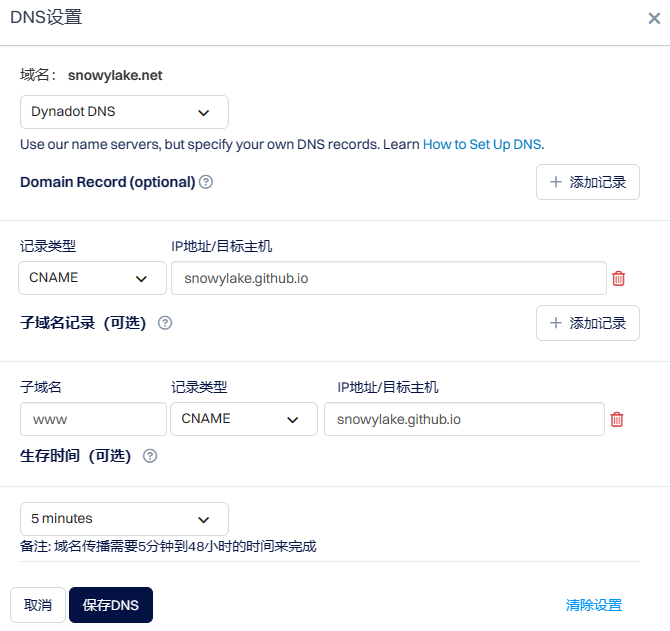
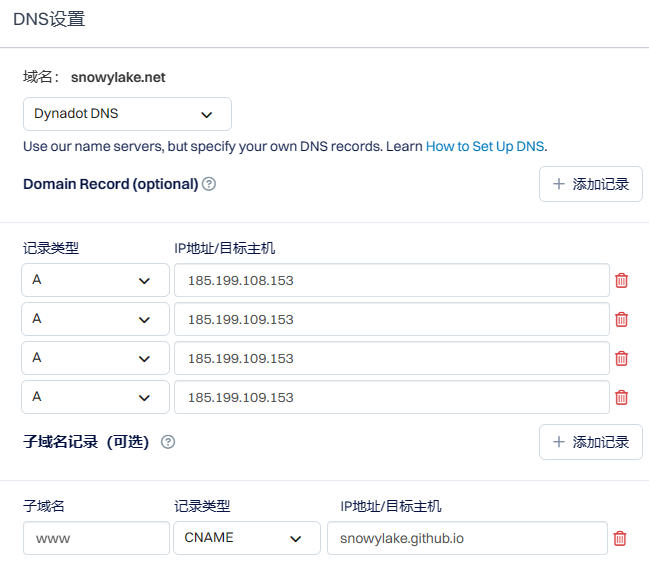
Site updated: 2023-06-16 03:58:55

diff --git a/2023/06/12/建站记录/index.html b/2023/06/12/建站记录/index.html
@@ -29,11 +29,11 @@
 <meta property="og:image" content="http://snowylake.net/2023/06/12/%E5%BB%BA%E7%AB%99%E8%AE%B0%E5%BD%95/image.png">
 <meta property="og:image" content="http://snowylake.net/2023/06/12/%E5%BB%BA%E7%AB%99%E8%AE%B0%E5%BD%95/image-5.png">
 <meta property="og:image" content="http://snowylake.net/2023/06/12/%E5%BB%BA%E7%AB%99%E8%AE%B0%E5%BD%95/image-1.png">
-<meta property="og:image" content="http://snowylake.net/2023/06/12/%E5%BB%BA%E7%AB%99%E8%AE%B0%E5%BD%95/image-2.png">
+<meta property="og:image" content="http://snowylake.net/2023/06/12/%E5%BB%BA%E7%AB%99%E8%AE%B0%E5%BD%95/image-6.png">
 <meta property="og:image" content="http://snowylake.net/2023/06/12/%E5%BB%BA%E7%AB%99%E8%AE%B0%E5%BD%95/image-3.png">
-<meta property="og:image" content="http://snowylake.net/2023/06/12/%E5%BB%BA%E7%AB%99%E8%AE%B0%E5%BD%95/image-4.png">
+<meta property="og:image" content="http://snowylake.net/2023/06/12/%E5%BB%BA%E7%AB%99%E8%AE%B0%E5%BD%95/image-7.png">
 <meta property="article:published_time" content="2023-06-11T17:31:13.000Z">
-<meta property="article:modified_time" content="2023-06-13T20:42:12.121Z">
+<meta property="article:modified_time" content="2023-06-15T19:58:37.030Z">
 <meta property="article:author" content="SnowyLake">
 <meta property="article:tag" content="技术随笔">
 <meta name="twitter:card" content="summary">
@@ -147,7 +147,7 @@
       <div class="sidebar-panel-container">
         <!--noindex-->
         <div class="post-toc-wrap sidebar-panel">
-            <div class="post-toc animated"><ol class="nav"><li class="nav-item nav-level-1"><a class="nav-link" href="#Github-Pages%E5%88%9B%E5%BB%BA"><span class="nav-number">1.</span> <span class="nav-text">Github Pages创建</span></a></li><li class="nav-item nav-level-1"><a class="nav-link" href="#%E5%BA%94%E7%94%A8Hexo%E6%A1%86%E6%9E%B6%E6%9C%AC%E5%9C%B0%E6%90%AD%E5%BB%BA%E9%83%A8%E7%BD%B2%E7%8E%AF%E5%A2%83"><span class="nav-number">2.</span> <span class="nav-text">应用Hexo框架本地搭建部署环境</span></a><ol class="nav-child"><li class="nav-item nav-level-2"><a class="nav-link" href="#%E5%AE%89%E8%A3%85%E4%B8%8E%E5%88%9D%E5%A7%8B%E5%8C%96"><span class="nav-number">2.1.</span> <span class="nav-text">安装与初始化</span></a></li><li class="nav-item nav-level-2"><a class="nav-link" href="#%E7%94%9F%E6%88%90%E4%B8%8E%E6%8E%A8%E9%80%81"><span class="nav-number">2.2.</span> <span class="nav-text">生成与推送</span></a></li></ol></li><li class="nav-item nav-level-1"><a class="nav-link" href="#Next%E4%B8%BB%E9%A2%98%E9%85%8D%E7%BD%AE"><span class="nav-number">3.</span> <span class="nav-text">Next主题配置</span></a></li><li class="nav-item nav-level-1"><a class="nav-link" href="#%E8%87%AA%E5%AE%9A%E4%B9%89%E5%9F%9F%E5%90%8D"><span class="nav-number">4.</span> <span class="nav-text">自定义域名</span></a></li></ol></div>
+            <div class="post-toc animated"><ol class="nav"><li class="nav-item nav-level-1"><a class="nav-link" href="#Github-Pages%E5%88%9B%E5%BB%BA"><span class="nav-number">1.</span> <span class="nav-text">Github Pages创建</span></a></li><li class="nav-item nav-level-1"><a class="nav-link" href="#%E5%BA%94%E7%94%A8Hexo%E6%A1%86%E6%9E%B6%E6%9C%AC%E5%9C%B0%E6%90%AD%E5%BB%BA%E9%83%A8%E7%BD%B2%E7%8E%AF%E5%A2%83"><span class="nav-number">2.</span> <span class="nav-text">应用Hexo框架本地搭建部署环境</span></a><ol class="nav-child"><li class="nav-item nav-level-2"><a class="nav-link" href="#%E5%AE%89%E8%A3%85%E4%B8%8E%E5%88%9D%E5%A7%8B%E5%8C%96"><span class="nav-number">2.1.</span> <span class="nav-text">安装与初始化</span></a></li><li class="nav-item nav-level-2"><a class="nav-link" href="#%E7%94%9F%E6%88%90%E4%B8%8E%E6%8E%A8%E9%80%81"><span class="nav-number">2.2.</span> <span class="nav-text">生成与推送</span></a></li></ol></li><li class="nav-item nav-level-1"><a class="nav-link" href="#Next%E4%B8%BB%E9%A2%98%E9%85%8D%E7%BD%AE"><span class="nav-number">3.</span> <span class="nav-text">Next主题配置</span></a><ol class="nav-child"><li class="nav-item nav-level-2"><a class="nav-link" href="#%E5%AE%89%E8%A3%85%E4%B8%8E%E9%85%8D%E7%BD%AENext"><span class="nav-number">3.1.</span> <span class="nav-text">安装与配置Next</span></a></li><li class="nav-item nav-level-2"><a class="nav-link" href="#%E6%B7%BB%E5%8A%A0%E5%8D%9A%E5%AE%A2%E5%A4%B4%E5%83%8F%E4%B8%8E%E8%83%8C%E6%99%AF"><span class="nav-number">3.2.</span> <span class="nav-text">添加博客头像与背景</span></a></li><li class="nav-item nav-level-2"><a class="nav-link" href="#%E6%B7%BB%E5%8A%A0%E8%8F%9C%E5%8D%95"><span class="nav-number">3.3.</span> <span class="nav-text">添加菜单</span></a></li><li class="nav-item nav-level-2"><a class="nav-link" href="#%E6%B7%BB%E5%8A%A0%E7%A4%BE%E4%BA%A4%E7%BD%91%E7%AB%99%E9%93%BE%E6%8E%A5"><span class="nav-number">3.4.</span> <span class="nav-text">添加社交网站链接</span></a></li><li class="nav-item nav-level-2"><a class="nav-link" href="#%E6%B7%BB%E5%8A%A0%E6%90%9C%E7%B4%A2%E5%8A%9F%E8%83%BD"><span class="nav-number">3.5.</span> <span class="nav-text">添加搜索功能</span></a></li><li class="nav-item nav-level-2"><a class="nav-link" href="#%E6%B7%BB%E5%8A%A0%E6%96%87%E7%AB%A0%E5%AD%97%E6%95%B0%E4%B8%8E%E9%98%85%E8%AF%BB%E6%97%B6%E9%95%BF%E7%BB%9F%E8%AE%A1"><span class="nav-number">3.6.</span> <span class="nav-text">添加文章字数与阅读时长统计</span></a></li><li class="nav-item nav-level-2"><a class="nav-link" href="#%E6%B7%BB%E5%8A%A0%E4%B8%8D%E8%92%9C%E5%AD%90%E7%BB%9F%E8%AE%A1"><span class="nav-number">3.7.</span> <span class="nav-text">添加不蒜子统计</span></a></li><li class="nav-item nav-level-2"><a class="nav-link" href="#%E6%B7%BB%E5%8A%A0%E5%8D%9A%E5%AE%A2%E8%83%8C%E6%99%AF%E4%B8%8E%E9%A1%B5%E9%9D%A2%E5%8D%8A%E9%80%8F%E6%98%8E"><span class="nav-number">3.8.</span> <span class="nav-text">添加博客背景与页面半透明</span></a></li><li class="nav-item nav-level-2"><a class="nav-link" href="#%E6%B7%BB%E5%8A%A0%E7%BD%91%E7%AB%99%E5%9B%BE%E6%A0%87"><span class="nav-number">3.9.</span> <span class="nav-text">添加网站图标</span></a></li><li class="nav-item nav-level-2"><a class="nav-link" href="#%E6%B7%BB%E5%8A%A0%E6%96%87%E6%9C%AB%E7%89%88%E6%9D%83%E5%A3%B0%E6%98%8E"><span class="nav-number">3.10.</span> <span class="nav-text">添加文末版权声明</span></a></li><li class="nav-item nav-level-2"><a class="nav-link" href="#%E4%BF%AE%E6%94%B9%E8%BE%B9%E6%A0%8F%E5%AE%BD%E5%BA%A6"><span class="nav-number">3.11.</span> <span class="nav-text">修改边栏宽度</span></a></li><li class="nav-item nav-level-2"><a class="nav-link" href="#%E9%BB%98%E8%AE%A4%E5%B1%95%E5%BC%80%E7%9B%AE%E5%BD%95"><span class="nav-number">3.12.</span> <span class="nav-text">默认展开目录</span></a></li></ol></li><li class="nav-item nav-level-1"><a class="nav-link" href="#%E5%8D%9A%E5%AE%A2%E5%86%99%E4%BD%9C%E5%8A%9F%E8%83%BD"><span class="nav-number">4.</span> <span class="nav-text">博客写作功能</span></a><ol class="nav-child"><li class="nav-item nav-level-2"><a class="nav-link" href="#%E5%A3%B0%E6%98%8E%E6%96%87%E7%AB%A0%E6%91%98%E8%A6%81"><span class="nav-number">4.1.</span> <span class="nav-text">声明文章摘要</span></a></li><li class="nav-item nav-level-2"><a class="nav-link" href="#%E9%85%8D%E7%BD%AE%E8%87%AA%E5%AE%9A%E4%B9%89%E6%A8%A1%E6%9D%BF"><span class="nav-number">4.2.</span> <span class="nav-text">配置自定义模板</span></a></li><li class="nav-item nav-level-2"><a class="nav-link" href="#%E6%96%87%E7%AB%A0%E5%88%86%E7%B1%BB%E4%B8%8E%E6%A0%87%E7%AD%BE"><span class="nav-number">4.3.</span> <span class="nav-text">文章分类与标签</span></a></li></ol></li><li class="nav-item nav-level-1"><a class="nav-link" href="#%E8%87%AA%E5%AE%9A%E4%B9%89%E5%9F%9F%E5%90%8D"><span class="nav-number">5.</span> <span class="nav-text">自定义域名</span></a></li><li class="nav-item nav-level-1"><a class="nav-link" href="#%E6%90%9C%E7%B4%A2%E5%BC%95%E6%93%8E%E7%B4%A2%E5%BC%95"><span class="nav-number">6.</span> <span class="nav-text">搜索引擎索引</span></a><ol class="nav-child"><li class="nav-item nav-level-2"><a class="nav-link" href="#%E6%B7%BB%E5%8A%A0%E7%B4%A2%E5%BC%95"><span class="nav-number">6.1.</span> <span class="nav-text">添加索引</span></a></li><li class="nav-item nav-level-2"><a class="nav-link" href="#%E7%94%9F%E6%88%90%E7%BD%91%E7%AB%99%E5%9C%B0%E5%9B%BE"><span class="nav-number">6.2.</span> <span class="nav-text">生成网站地图</span></a></li></ol></li></ol></div>
         </div>
         <!--/noindex-->
 
@@ -247,7 +247,7 @@
         <i class="far fa-calendar-check"></i>
       </span>
       <span class="post-meta-item-text">更新于</span>
-      <time title="修改时间：2023-06-14 04:42:12" itemprop="dateModified" datetime="2023-06-14T04:42:12+08:00">2023-06-14</time>
+      <time title="修改时间：2023-06-16 03:58:37" itemprop="dateModified" datetime="2023-06-16T03:58:37+08:00">2023-06-16</time>
     </span>
     <span class="post-meta-item">
       <span class="post-meta-item-icon">
@@ -277,14 +277,14 @@
         <i class="far fa-file-word"></i>
       </span>
       <span class="post-meta-item-text">本文字数：</span>
-      <span>2.4k</span>
+      <span>2.6k</span>
     </span>
     <span class="post-meta-item" title="阅读时长">
       <span class="post-meta-item-icon">
         <i class="far fa-clock"></i>
       </span>
       <span class="post-meta-item-text">阅读时长 &asymp;</span>
-      <span>4 分钟</span>
+      <span>5 分钟</span>
     </span>
 </div>
 
@@ -325,8 +325,9 @@
 <p>常用Hexo命令:</p>
 <figure class="highlight shell"><table><tr><td class="gutter"><pre><span class="line">1</span><br><span class="line">2</span><br><span class="line">3</span><br><span class="line">4</span><br><span class="line">5</span><br><span class="line">6</span><br><span class="line">7</span><br><span class="line">8</span><br><span class="line">9</span><br><span class="line">10</span><br><span class="line">11</span><br><span class="line">12</span><br><span class="line">13</span><br><span class="line">14</span><br><span class="line">15</span><br><span class="line">16</span><br><span class="line">17</span><br><span class="line">18</span><br><span class="line">19</span><br><span class="line">20</span><br><span class="line">21</span><br><span class="line">22</span><br><span class="line">23</span><br><span class="line">24</span><br></pre></td><td class="code"><pre><span class="line"><span class="meta prompt_">#</span><span class="language-bash">生成public文件夹</span></span><br><span class="line"><span class="meta prompt_">$ </span><span class="language-bash">hexo generate</span></span><br><span class="line"><span class="meta prompt_">$ </span><span class="language-bash">hexo g <span class="comment">#简写</span></span></span><br><span class="line"><span class="meta prompt_"></span></span><br><span class="line"><span class="meta prompt_">#</span><span class="language-bash">向github推送</span></span><br><span class="line"><span class="meta prompt_">$ </span><span class="language-bash">hexo deploy</span></span><br><span class="line"><span class="meta prompt_">$ </span><span class="language-bash">hexo d <span class="comment">#简写</span></span></span><br><span class="line"><span class="meta prompt_"></span></span><br><span class="line"><span class="meta prompt_">#</span><span class="language-bash">本地预览网站</span></span><br><span class="line"><span class="meta prompt_">$ </span><span class="language-bash">hexo server</span></span><br><span class="line"><span class="meta prompt_">$ </span><span class="language-bash">hexo s <span class="comment">#简写</span></span></span><br><span class="line"><span class="meta prompt_">$ </span><span class="language-bash">hexo s --debug <span class="comment">#debug状态下本地预览网站</span></span></span><br><span class="line"><span class="meta prompt_"></span></span><br><span class="line"><span class="meta prompt_">#</span><span class="language-bash">新建文章</span></span><br><span class="line"><span class="meta prompt_">$ </span><span class="language-bash">hexo new <span class="string">&quot;postName&quot;</span></span></span><br><span class="line"><span class="meta prompt_"></span></span><br><span class="line"><span class="meta prompt_">#</span><span class="language-bash">新建页面(后续演示)</span></span><br><span class="line"><span class="meta prompt_">$ </span><span class="language-bash">hexo new page <span class="string">&quot;postName&quot;</span></span></span><br><span class="line"><span class="meta prompt_"></span></span><br><span class="line"><span class="meta prompt_">#</span><span class="language-bash">生成并本地预览</span></span><br><span class="line"><span class="meta prompt_">$ </span><span class="language-bash">hexo s -g</span></span><br><span class="line"><span class="meta prompt_"></span></span><br><span class="line"><span class="meta prompt_">#</span><span class="language-bash">生成并推送</span></span><br><span class="line"><span class="meta prompt_">$ </span><span class="language-bash">hexo d -g</span></span><br></pre></td></tr></table></figure>
 
-<h1 id="Next主题配置"><a href="#Next主题配置" class="headerlink" title="Next主题配置"></a>Next主题配置</h1><h1 id="自定义域名"><a href="#自定义域名" class="headerlink" title="自定义域名"></a>自定义域名</h1><p>这里我是通过 <a target="_blank" rel="noopener" href="http://www.dynadot.com/">www.dynadot.com</a> 购买的域名.<br>首先要对域名进行dns解析, 这里选择CNAME的形式, 顺便也要把www的子域名给解析了.<br><img src="/2023/06/12/%E5%BB%BA%E7%AB%99%E8%AE%B0%E5%BD%95/../%E5%BB%BA%E7%AB%99%E8%AE%B0%E5%BD%95/image-2.png" alt="Alt text"><br>之后在source文件夹下创建一个CNAME文件, 注意不要加文件扩展名, 在里面输入要自定义的域名, 比如我的就是 snowylake.net :<br><img src="/2023/06/12/%E5%BB%BA%E7%AB%99%E8%AE%B0%E5%BD%95/../%E5%BB%BA%E7%AB%99%E8%AE%B0%E5%BD%95/image-3.png" alt="Alt text"><br>之后执行hexo d -g, 生成并提交.<br>进入github repo页面, 点击setting找到pages, 将域名输入到Custom domain中, 点击save等待片刻即可.<br><img src="/2023/06/12/%E5%BB%BA%E7%AB%99%E8%AE%B0%E5%BD%95/../%E5%BB%BA%E7%AB%99%E8%AE%B0%E5%BD%95/image-4.png" alt="Alt text"></p>
-
+<h1 id="Next主题配置"><a href="#Next主题配置" class="headerlink" title="Next主题配置"></a>Next主题配置</h1><h2 id="安装与配置Next"><a href="#安装与配置Next" class="headerlink" title="安装与配置Next"></a>安装与配置Next</h2><h2 id="添加博客头像与背景"><a href="#添加博客头像与背景" class="headerlink" title="添加博客头像与背景"></a>添加博客头像与背景</h2><h2 id="添加菜单"><a href="#添加菜单" class="headerlink" title="添加菜单"></a>添加菜单</h2><h2 id="添加社交网站链接"><a href="#添加社交网站链接" class="headerlink" title="添加社交网站链接"></a>添加社交网站链接</h2><h2 id="添加搜索功能"><a href="#添加搜索功能" class="headerlink" title="添加搜索功能"></a>添加搜索功能</h2><h2 id="添加文章字数与阅读时长统计"><a href="#添加文章字数与阅读时长统计" class="headerlink" title="添加文章字数与阅读时长统计"></a>添加文章字数与阅读时长统计</h2><h2 id="添加不蒜子统计"><a href="#添加不蒜子统计" class="headerlink" title="添加不蒜子统计"></a>添加不蒜子统计</h2><h2 id="添加博客背景与页面半透明"><a href="#添加博客背景与页面半透明" class="headerlink" title="添加博客背景与页面半透明"></a>添加博客背景与页面半透明</h2><h2 id="添加网站图标"><a href="#添加网站图标" class="headerlink" title="添加网站图标"></a>添加网站图标</h2><h2 id="添加文末版权声明"><a href="#添加文末版权声明" class="headerlink" title="添加文末版权声明"></a>添加文末版权声明</h2><h2 id="修改边栏宽度"><a href="#修改边栏宽度" class="headerlink" title="修改边栏宽度"></a>修改边栏宽度</h2><h2 id="默认展开目录"><a href="#默认展开目录" class="headerlink" title="默认展开目录"></a>默认展开目录</h2><h1 id="博客写作功能"><a href="#博客写作功能" class="headerlink" title="博客写作功能"></a>博客写作功能</h1><h2 id="声明文章摘要"><a href="#声明文章摘要" class="headerlink" title="声明文章摘要"></a>声明文章摘要</h2><h2 id="配置自定义模板"><a href="#配置自定义模板" class="headerlink" title="配置自定义模板"></a>配置自定义模板</h2><h2 id="文章分类与标签"><a href="#文章分类与标签" class="headerlink" title="文章分类与标签"></a>文章分类与标签</h2><h1 id="自定义域名"><a href="#自定义域名" class="headerlink" title="自定义域名"></a>自定义域名</h1><p>这里我是通过 <a target="_blank" rel="noopener" href="http://www.dynadot.com/">www.dynadot.com</a> 购买的域名.<br>首先要对域名进行dns解析, 为了白嫖Github提供的https证书, 这里需要填上四个A作为主域名连接到github提供的ip地址上, 同时用CNAME把www的子域名也给解析了.<br><img src="/2023/06/12/%E5%BB%BA%E7%AB%99%E8%AE%B0%E5%BD%95/../%E5%BB%BA%E7%AB%99%E8%AE%B0%E5%BD%95/image-6.png" alt="Alt text"><br>之后在source文件夹下创建一个CNAME文件, 注意不要加文件扩展名, 在里面输入要自定义的域名, 比如我的就是 snowylake.net :<br><img src="/2023/06/12/%E5%BB%BA%E7%AB%99%E8%AE%B0%E5%BD%95/../%E5%BB%BA%E7%AB%99%E8%AE%B0%E5%BD%95/image-3.png" alt="Alt text"><br>之后执行hexo d -g, 生成并提交.<br>进入github repo页面, 点击setting找到pages, 将域名输入到Custom domain中, 点击save.<br>同时github还将自动为你的域名申请https证书, 等待片刻后即可勾选Enforce HTTPS.<br><img src="/2023/06/12/%E5%BB%BA%E7%AB%99%E8%AE%B0%E5%BD%95/../%E5%BB%BA%E7%AB%99%E8%AE%B0%E5%BD%95/image-7.png" alt="Alt text"></p>
+<h1 id="搜索引擎索引"><a href="#搜索引擎索引" class="headerlink" title="搜索引擎索引"></a>搜索引擎索引</h1><h2 id="添加索引"><a href="#添加索引" class="headerlink" title="添加索引"></a>添加索引</h2><p>需要为搜索引擎添加索引, 才能让我们的网站被各大搜索引擎所收录.</p>
+<h2 id="生成网站地图"><a href="#生成网站地图" class="headerlink" title="生成网站地图"></a>生成网站地图</h2>
     </div>
 
     

diff --git a/index.html b/index.html
@@ -446,7 +446,7 @@
         <i class="far fa-calendar-check"></i>
       </span>
       <span class="post-meta-item-text">更新于</span>
-      <time title="修改时间：2023-06-14 04:42:12" itemprop="dateModified" datetime="2023-06-14T04:42:12+08:00">2023-06-14</time>
+      <time title="修改时间：2023-06-16 03:58:37" itemprop="dateModified" datetime="2023-06-16T03:58:37+08:00">2023-06-16</time>
     </span>
     <span class="post-meta-item">
       <span class="post-meta-item-icon">
@@ -469,14 +469,14 @@
         <i class="far fa-file-word"></i>
       </span>
       <span class="post-meta-item-text">本文字数：</span>
-      <span>2.4k</span>
+      <span>2.6k</span>
     </span>
     <span class="post-meta-item" title="阅读时长">
       <span class="post-meta-item-icon">
         <i class="far fa-clock"></i>
       </span>
       <span class="post-meta-item-text">阅读时长 &asymp;</span>
-      <span>4 分钟</span>
+      <span>5 分钟</span>
     </span>
 </div>
 
